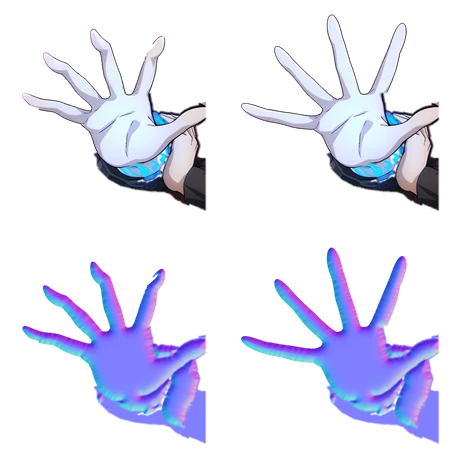
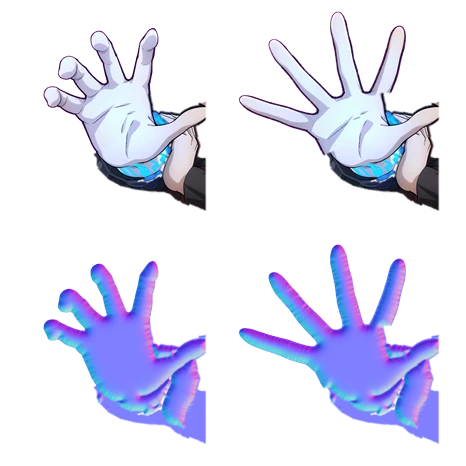
feat(space-backdrop): 光炮手势重出：指节朝掌心弯，手掌也换角度
lyjw：「那手指弄得跟鸡爪一样」「注意那个弯曲方向」「手掌角度也可以适当变化」。
旧的蓄力手势指节往外反折、手指偏细。重出时提示词写明每个指节往掌心（朝镜头）弯、
不反折、粗细与原图一致；蓄力手掌往左上偏约 8°、无名指小指扣得多，发射手掌正对镜头、
手指伸直猛张。拇指、右手、蓝球仍用原图。

diff --git a/src/components/space-backdrop/aoko-cannon.ts b/src/components/space-backdrop/aoko-cannon.ts
@@ -114,7 +114,7 @@ function ring(ctx: CanvasRenderingContext2D, r: number, a: number) {
 const STILL_SINCE = -0.3;
 
 // 光团照在手上的强度：长满手掌时为 1，发射那一下再亮一截，半秒内退掉。since 为 null 是减少动态效果的静帧。
-// 蓄力和发射时换手势：0 是立绘原来的手，1 手指微弯绷劲，2 手指猛张。1、2 是 Codex 照预告帧改的手指，拇指、握腕的右手、蓝球与袖子仍是原图；
+// 蓄力和发射时换手势：0 是立绘原来的手，1 手指朝镜头扣、手掌略往左上偏，2 手指伸直猛张、手掌正对镜头。1、2 是 Codex 照预告帧改的手掌和手指（指节一律往掌心那侧弯，反折就成了鸡爪），拇指、握腕的右手、蓝球与袖子仍是原图；
 // 原图与拼法在本机母图目录（项目记忆 aoko-face-pipeline），图集由 scripts/aoko-hand-normals.py --tiles 2 生成。
 // 硬切不淡化，两张手叠着淡化会有重影；切的那一刻正好光团长满或光线迸出，最亮，看不出跳。
 export const HANDS = "/mascots/aoko-hands.webp";

diff --git a/docs/references.md b/docs/references.md
@@ -203,7 +203,7 @@
   - 状态：采用。落在 `src/components/space-backdrop/aoko-fx.ts`、`src/components/space-backdrop/aoko-floor.ts`、`src/components/space-backdrop/aoko-rings.ts`、`src/components/space-backdrop/aoko-summon.ts`、`src/components/space-backdrop/aoko.ts#glowOf`，贴图由 `scripts/aoko-fx-assets.ts` 导出。
 - **[剧场版《魔法使之夜》最终预告的开头](https://x.com/mahoyo_movie/status/2108754403486584867)**（@mahoyo_movie，TYPE-MOON / ufotable）
   - 是什么：官方动画账号发的 30 秒剧场用预告，开头约 1.7 秒是青子伸掌放光炮：掌心冒出一点碎白光，约 0.2 秒长成盖满手掌的白芯淡紫蓝光团，边缘翻滚着停半秒，发射时收成一点、迸出几道不等角的细长光线，再扩出一圈细亮的环。
-  - 取了什么：只取这几帧的形状、配色与时序（24fps 下 f19 点亮、f24 长满、f37 发射，光线射出后整组顺时针转），光团、光线、光环都用 Canvas 2D 画，没用视频里的画面；光团的淡紫蓝在帧上取色，记作 `aoko-fx.json` 的 `pale`。光团在掌前，照亮手掌：手层按轮廓鼓出法线，着色器把光团当点光源算漫反射，分两档硬边色阶，背光面压成冷紫。蓄力与发射的手势照 f24、f39 让 Codex 改手指（拇指、右手、蓝球不动），按节拍硬切。闲置时的手与那团光、蓄力期间的地面、背环、电弧都不变。
+  - 取了什么：只取这几帧的形状、配色与时序（24fps 下 f19 点亮、f24 长满、f37 发射，光线射出后整组顺时针转），光团、光线、光环都用 Canvas 2D 画，没用视频里的画面；光团的淡紫蓝在帧上取色，记作 `aoko-fx.json` 的 `pale`。光团在掌前，照亮手掌：手层按轮廓鼓出法线，着色器把光团当点光源算漫反射，分两档硬边色阶，背光面压成冷紫。蓄力与发射的手势照 f24、f39 让 Codex 改手掌角度和手指（指节往掌心、朝镜头弯；拇指、右手、蓝球不动），按节拍硬切。闲置时的手与那团光、蓄力期间的地面、背环、电弧都不变。
   - 状态：采用。落在 `src/components/space-backdrop/aoko-cannon.ts`（`palmCannon`、`palmLight`、`palmPose`、`PALM_LIT_GLSL`）、`src/components/space-backdrop/aoko.ts` 的手层着色，贴图 `public/mascots/aoko-hands.webp`、`aoko-arm-normal.webp` 由 `scripts/aoko-hand-normals.py` 生成。
 - **[Clawd's Halloween](https://x.com/alexgreensh/status/2110404428691808308)**（Alex Greenshpun）与 **[anidoodle](https://github.com/alexgreensh/anidoodle)** 的 colouredPencil 画法（Apache-2.0）
   - 是什么：Opus 5.5 用 anidoodle skill 纯代码画的彩铅动画短片；skill 里每种画风写明媒介、笔触、边缘和落笔顺序。
